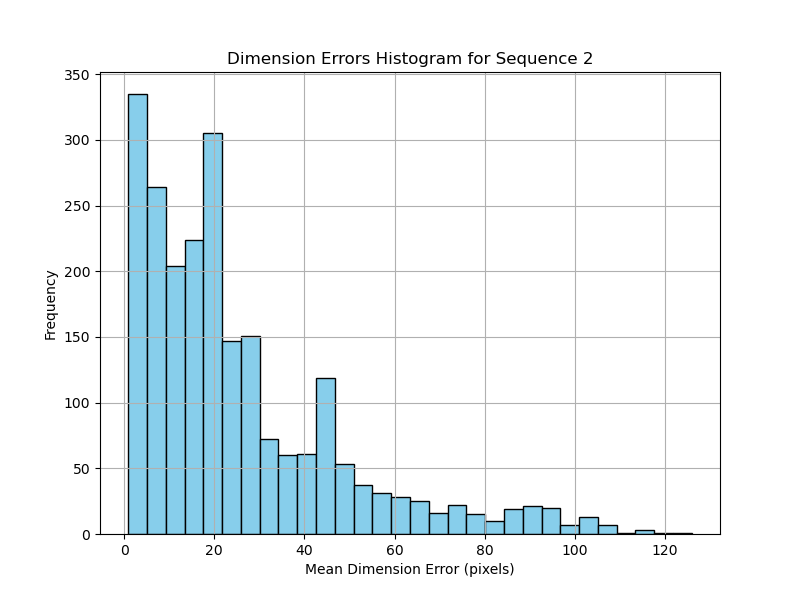
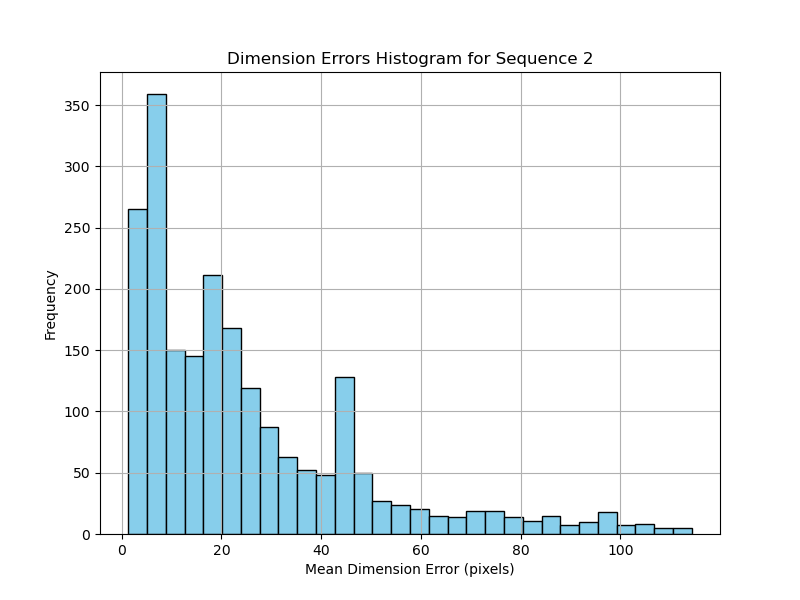
final

diff --git a/src/tracking/kalman.py b/src/tracking/kalman.py
@@ -19,8 +19,6 @@ class KalmanFilterXYZAH:
         _update_mat (np.ndarray): The update matrix for the Kalman filter.
         _std_weight_position (float): Standard deviation weight for position.
         _std_weight_velocity (float): Standard deviation weight for velocity.
-        _std_weight_position_z (float): Standard deviation weight for z-axis position.
-        _std_weight_velocity_z (float): Standard deviation weight for z-axis velocity.
 
     Methods:
         initiate: Creates a track from an unassociated measurement.
@@ -64,12 +62,12 @@ class KalmanFilterXYZAH:
         self._update_mat = np.eye(ndim, 2 * ndim)
 
         # Motion and observation uncertainty weights
-        self._std_weight_position = 1.0 / 10
-        self._std_weight_velocity = 1.0 / 20
+        self._std_weight_position = 1.0 / 40
+        self._std_weight_velocity = 1.0 / 160
 
         # Increase uncertainty in z-axis
         self._std_weight_position_z = 0.9
-        self._std_weight_velocity_z = 0.5
+        self._std_weight_velocity_z = 0.9
 
     def initiate(self, measurement: np.ndarray) -> tuple:
         """
@@ -106,6 +104,9 @@ class KalmanFilterXYZAH:
             10 * self._std_weight_velocity * measurement[4],  # vh
         ]
         covariance = np.diag(np.square(std))
+        # Increase z-axis covariance
+        covariance[2, 2] = np.square(4 * self._std_weight_position_z * measurement[4])
+        covariance[7, 7] = np.square(20 * self._std_weight_velocity_z * measurement[4])
         return mean, covariance
 
     def predict(self, mean: np.ndarray, covariance: np.ndarray) -> tuple:
@@ -126,7 +127,6 @@ class KalmanFilterXYZAH:
             >>> predicted_mean, predicted_covariance = kf.predict(mean, covariance)
 
         """
-        # Apply z-specific standard deviation weights
         std_pos = [
             self._std_weight_position * mean[4],  # x
             self._std_weight_position * mean[4],  # y
@@ -173,7 +173,7 @@ class KalmanFilterXYZAH:
             self._std_weight_position * mean[4],  # y
             self._std_weight_position_z * mean[4],  # z
             1e-1,  # a
-            self._std_weight_position * mean[4],  # h
+            self._std_weight_position_z * mean[4],  # h
         ]
         innovation_cov = np.diag(np.square(std))
 
@@ -199,33 +199,27 @@ class KalmanFilterXYZAH:
             >>> predicted_mean, predicted_covariance = kalman_filter.multi_predict(mean, covariance)
 
         """
-        # Apply z-specific standard deviation weights
-        std_pos = np.vstack(
-            [
-                self._std_weight_position * mean[:, 4],  # x
-                self._std_weight_position * mean[:, 4],  # y
-                self._std_weight_position_z * mean[:, 4],  # z
-                1e-2 * np.ones_like(mean[:, 4]),  # a
-                self._std_weight_position * mean[:, 4],  # h
-            ],
-        ).T
-        std_vel = np.vstack(
-            [
-                self._std_weight_velocity * mean[:, 4],  # vx
-                self._std_weight_velocity * mean[:, 4],  # vy
-                self._std_weight_velocity_z * mean[:, 4],  # vz
-                1e-5 * np.ones_like(mean[:, 4]),  # va
-                self._std_weight_velocity * mean[:, 4],  # vh
-            ],
-        ).T
-        sqr = np.square(np.hstack([std_pos, std_vel]))
+        std_pos = [
+            self._std_weight_position * mean[:, 4],  # x
+            self._std_weight_position * mean[:, 4],  # y
+            self._std_weight_position_z * mean[:, 4],  # z
+            1e-2 * np.ones_like(mean[:, 4]),  # a
+            self._std_weight_position * mean[:, 4],  # h
+        ]
+        std_vel = [
+            self._std_weight_velocity * mean[:, 4],  # vx
+            self._std_weight_velocity * mean[:, 4],  # vy
+            self._std_weight_velocity_z * mean[:, 4],  # vz
+            1e-5 * np.ones_like(mean[:, 4]),  # va
+            self._std_weight_velocity * mean[:, 4],  # vh
+        ]
+        sqr = np.square(np.r_[std_pos, std_vel]).T
 
         motion_cov = np.array([np.diag(sqr[i]) for i in range(len(mean))])
 
         mean = np.dot(mean, self._motion_mat.T)
-        # Efficient batch computation
-        covariance = np.einsum("ij,njk->nik", self._motion_mat, covariance)
-        covariance = np.einsum("njk,ik->nij", covariance, self._motion_mat.T) + motion_cov
+        left = np.dot(self._motion_mat, covariance).transpose((1, 0, 2))
+        covariance = np.dot(left, self._motion_mat.T) + motion_cov
 
         return mean, covariance
 
@@ -233,7 +227,7 @@ class KalmanFilterXYZAH:
         self,
         mean: np.ndarray,
         covariance: np.ndarray,
-        measurement: np.ndarray = None,
+        measurement: np.ndarray,
         measurement_mask: np.ndarray = None,
     ) -> tuple:
         """
@@ -242,16 +236,15 @@ class KalmanFilterXYZAH:
         Args:
             mean (ndarray): The predicted state's mean vector (10-dimensional).
             covariance (ndarray): The state's covariance matrix (10x10-dimensional).
-            measurement (ndarray, optional): The 5-dimensional measurement vector (x, y, z, a, h).
-            measurement_mask (ndarray, optional): A boolean array indicating which measurements are available.
+            measurement (ndarray): The 5-dimensional measurement vector (x, y, z, a, h).
+            measurement_mask (ndarray): A boolean array indicating which measurements are available.
 
         Returns:
             (tuple[ndarray, ndarray]): Returns the measurement-corrected state distribution.
 
         """
-        if measurement is None or measurement_mask is None:
-            # No measurements available; skip the update step
-            return mean, covariance
+        if measurement_mask is None:
+            measurement_mask = np.array([True, True, True, True, True])
 
         # Select only the available measurements
         available_indices = np.where(measurement_mask)[0]
@@ -271,14 +264,14 @@ class KalmanFilterXYZAH:
         z = measurement[available_indices]
 
         # Compute Kalman Gain
-        S = covariance_proj + np.diag(
-            [self._std_weight_position * mean[4] if i < 4 else 1e-2 for i in available_indices],
+        S = (
+            covariance_proj
+            + np.diag(
+                [self._std_weight_position * mean[4] if i < 4 else 1e-2 for i in available_indices],
+            )
+            ** 2
         )
-        try:
-            K = np.dot(covariance, H.T) @ np.linalg.inv(S)
-        except np.linalg.LinAlgError:
-            # If S is singular, use pseudo-inverse
-            K = np.dot(covariance, H.T) @ np.linalg.pinv(S)
+        K = np.dot(covariance, H.T) @ np.linalg.inv(S)
 
         # Innovation
         y = z - mean_proj
@@ -334,18 +327,18 @@ class KalmanFilterXYZAH:
         if metric == "gaussian":
             return np.sum(d * d, axis=1)
         if metric == "maha":
-            try:
-                cholesky_factor = np.linalg.cholesky(covariance_proj)
-                z = scipy.linalg.solve_triangular(
-                    cholesky_factor,
-                    d.T,
-                    lower=True,
-                    check_finite=False,
-                    overwrite_b=True,
-                )
-                return np.sum(z * z, axis=0)  # square Mahalanobis
-            except np.linalg.LinAlgError:
-                # If covariance is not positive definite, fallback to pseudo-inverse
-                inv_cov = np.linalg.pinv(covariance_proj)
-                return np.einsum("ij,ij->i", d, np.dot(d, inv_cov))
+            # try:
+            cholesky_factor = np.linalg.cholesky(covariance_proj)
+            z = scipy.linalg.solve_triangular(
+                cholesky_factor,
+                d.T,
+                lower=True,
+                check_finite=False,
+                overwrite_b=True,
+            )
+            return np.sum(z * z, axis=0)  # square Mahalanobis
+        # except np.linalg.LinAlgError:
+        #    # If covariance is not positive definite, fallback to pseudo-inverse
+        #    inv_cov = np.linalg.pinv(covariance_proj)
+        #    return np.einsum("ij,ij->i", d, np.dot(d, inv_cov))
         raise ValueError("Invalid distance metric")

diff --git a/src/tracking/byte_tracker.py b/src/tracking/byte_tracker.py
@@ -265,10 +265,14 @@ class BYTETracker:
         # Make sure all the tracks in the tracked_stracks are activated and lost_stracks are not activated
         for track in self.tracked_stracks:
             if track.state != TrackState.Tracked:
-                track.state = TrackState.Tracked
+                # remove the track from the list
+                self.tracked_stracks.remove(track)
+                self.lost_stracks.append(track)
         for track in self.lost_stracks:
             if track.state != TrackState.Lost:
-                track.state = TrackState.Lost
+                # remove the track from the list
+                self.lost_stracks.remove(track)
+                self.removed_stracks.append(track)
 
         return self.get_active_tracks()
 
@@ -725,11 +729,11 @@ class BYTETracker:
             removed_stracks (List[STrackFeature]): Removed stracks.
         """
         # Step 1: Remove tracks from tracked_stracks that are no longer Tracked
-        self.tracked_stracks = [t for t in self.tracked_stracks if t.state == TrackState.Tracked]
+        # self.tracked_stracks = [t for t in self.tracked_stracks if t.state == TrackState.Tracked]
 
         # Step 2: Add activated and refound stracks to tracked_stracks
-        self.tracked_stracks = self.joint_stracks(self.tracked_stracks, activated_stracks)
-        self.tracked_stracks = self.joint_stracks(self.tracked_stracks, refind_stracks)
+        self.tracked_stracks = self.joint_stracks(refind_stracks, activated_stracks)
+        # self.tracked_stracks = self.joint_stracks(self.tracked_stracks, refind_stracks)
 
         # Step 3: Remove activated and refound tracks from lost_stracks
         activated_ids = set(track.track_id for track in activated_stracks + refind_stracks)

diff --git a/src/tracking/s_track.py b/src/tracking/s_track.py
@@ -45,8 +45,8 @@ class STrack(BaseTrack):
             return
         mean_state = self.mean.copy()
         # Zero the velocity of z and aspect ratio
-        # if self.state != TrackState.Tracked:
-        #    mean_state[7:] = 0
+        if self.state != TrackState.Tracked:
+            mean_state[7:] = 0
         self.mean, self.covariance = self.kalman_filter.predict(mean_state, self.covariance)
 
     @staticmethod
@@ -56,10 +56,10 @@ class STrack(BaseTrack):
             return
         multi_mean = np.asarray([st.mean.copy() for st in stracks])
         multi_covariance = np.asarray([st.covariance for st in stracks])
-        # for i, st in enumerate(stracks):
-        #    if st.state != TrackState.Tracked:
-        #        # Zero the z velocity and height and aspect ratio velocity
-        #        multi_mean[i][7:] = 0
+        for i, st in enumerate(stracks):
+            if st.state != TrackState.Tracked:
+                # Zero the z velocity and height and aspect ratio velocity
+                multi_mean[i][7:] = 0
 
         multi_mean, multi_covariance = STrack.shared_kalman.multi_predict(
             multi_mean,

diff --git a/main.py b/main.py
@@ -125,6 +125,8 @@ def run(config_path: str) -> None:
 
     # Iterate over each sequence
     for seq_id, frames in data.items():
+        if seq_id == "1":
+            continue
         logger.info(f"Processing sequence {seq_id} with {len(frames)} frames.")
         evaluator.reset()
         tracker_pedastrians.reset()
